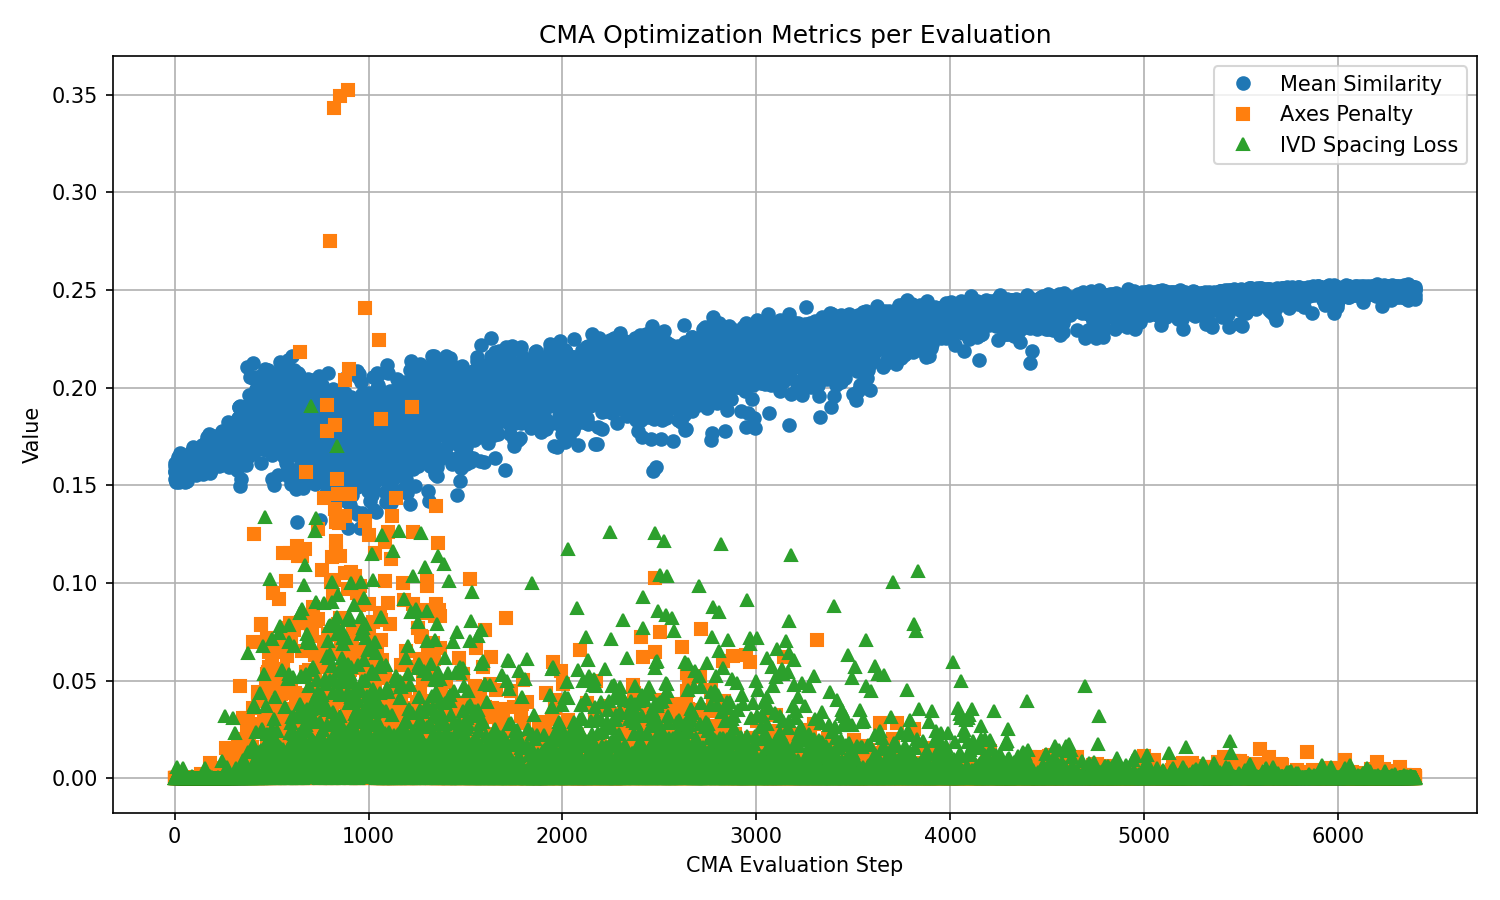
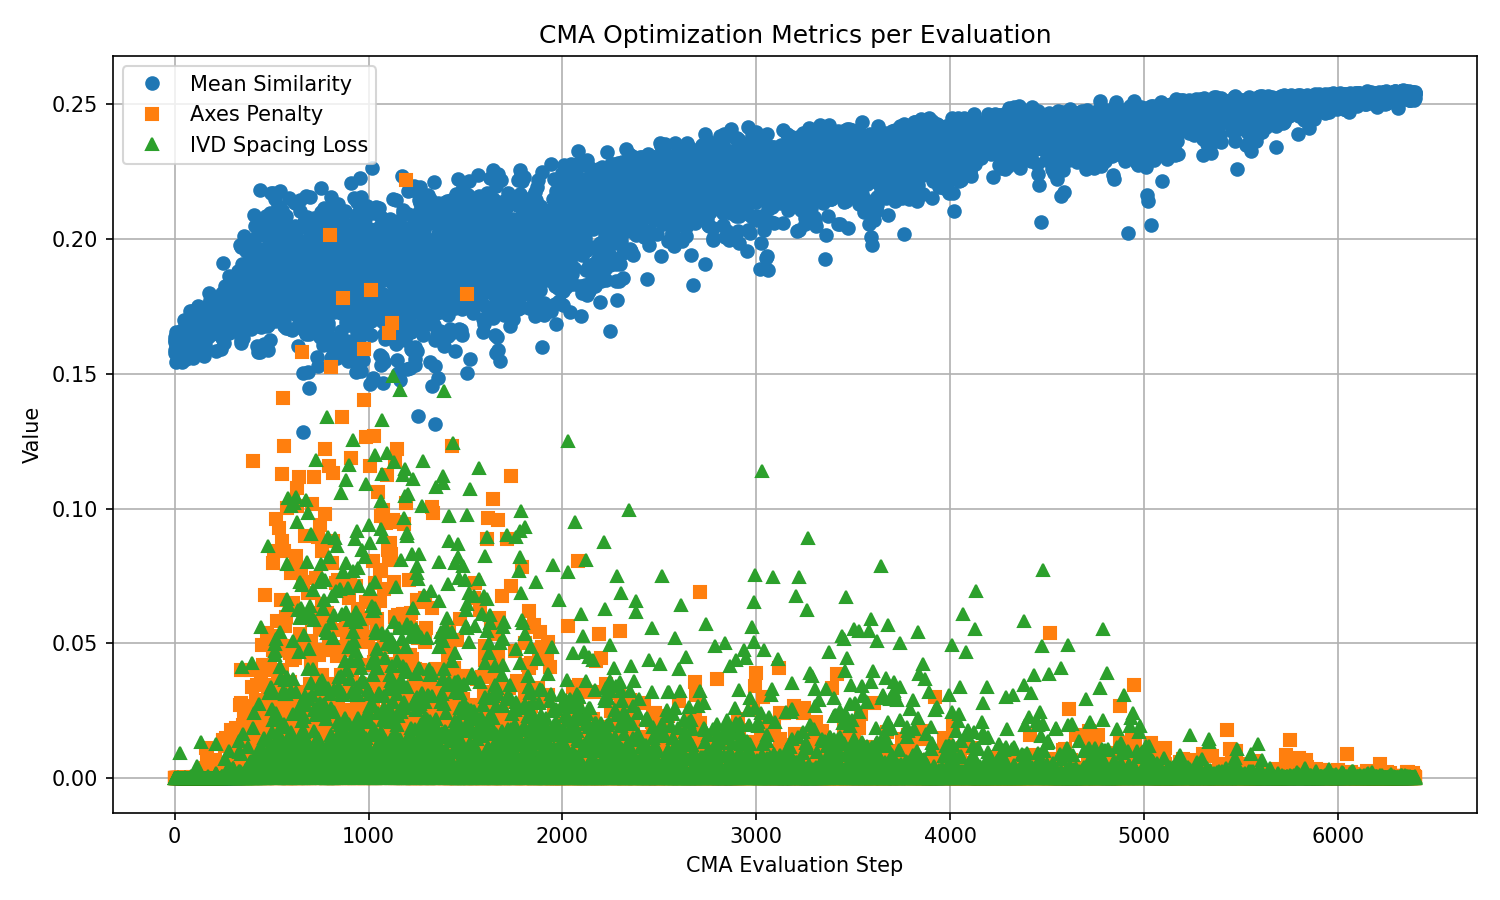
ls rotation penalty added

diff --git a/utils/helpers.py b/utils/helpers.py
@@ -189,30 +189,50 @@ def compute_inter_vertebral_displacement_penalty(moved_centroids, case_centroids
         
         SI_axis_avg = (SI_axis_k_transformed + SI_axis_k1_transformed) / 2.0
         SI_axis_avg = SI_axis_avg / np.linalg.norm(SI_axis_avg)
-        
+
+
+        # SI TWIST PENALTY
+        # take LM axes (could also use AP)
+        LM_k = LM_axis_k_transformed
+        LM_k1 = LM_axis_k1_transformed
+
+        LM_k_proj = LM_k - np.dot(LM_k, SI_axis_avg) * SI_axis_avg
+        LM_k1_proj = LM_k1 - np.dot(LM_k1, SI_axis_avg) * SI_axis_avg
+
+        LM_k_proj /= np.linalg.norm(LM_k_proj)
+        LM_k1_proj /= np.linalg.norm(LM_k1_proj)
 
         # project relative position onto averaged transformed axes
         LM_component = abs(np.dot(relative_vec, LM_axis_avg))
         AP_component = abs(np.dot(relative_vec, AP_axis_avg))
         SI_component = abs(np.dot(relative_vec, SI_axis_avg))
+
+        # angle between projected LM axes = twist about SI
+        cos_theta = np.clip(np.dot(LM_k_proj, LM_k1_proj), -1.0, 1.0)
+        twist_angle = np.arccos(cos_theta)  
+        SI_rot_violation = max(0.0, twist_angle - margins['SI_rot'])
         
 
-        # Penalize if lateral or AP separation is too large (anatomically implausible)
+        # penalize if lateral or AP separation is too large (anatomically implausible)
         LM_magnitude = abs(LM_component)
         AP_magnitude = abs(AP_component)
         
         LM_violation = max(0.0, LM_magnitude - margins['LM'])
         AP_violation = max(0.0, AP_magnitude - margins['AP'])
         
-        # For SI: Check if compression/extension is excessive
-        # We expect some SI separation, so check change from original
+        # For SI: check if compression/extension is excessive
+        # expect some SI separation, so check change from original
         original_relative_vec = case_centroids[k+1] - case_centroids[k]
         original_SI = abs(np.dot(original_relative_vec, SI_axis_avg))
         SI_change = abs(abs(SI_component) - original_SI)
         SI_violation = max(0.0, SI_change - margins['SI'])
 
-        penalty += LM_violation**2 + AP_violation**2 + SI_violation**2
-
+        penalty += (
+            LM_violation**2 +
+            AP_violation**2 +
+            SI_violation**2 +
+            SI_rot_violation**2
+        )
     
     return penalty / float(K - 1)
 

diff --git a/groupwise_GPU.py b/groupwise_GPU.py
@@ -97,7 +97,8 @@ def evaluate_group_gpu(flat_params, K, centers, sampled_positions_list,
     axes_margins = { # mm values
         'LM': 3.0,
         'AP': 3.0,
-        'SI': 5.0
+        'SI': 5.0,
+        'SI_rot' : np.deg2rad(20)
     }
     axes_penalty = compute_inter_vertebral_displacement_penalty(
         moved_centroids, case_centroids, case_axes, transforms_list, axes_margins
